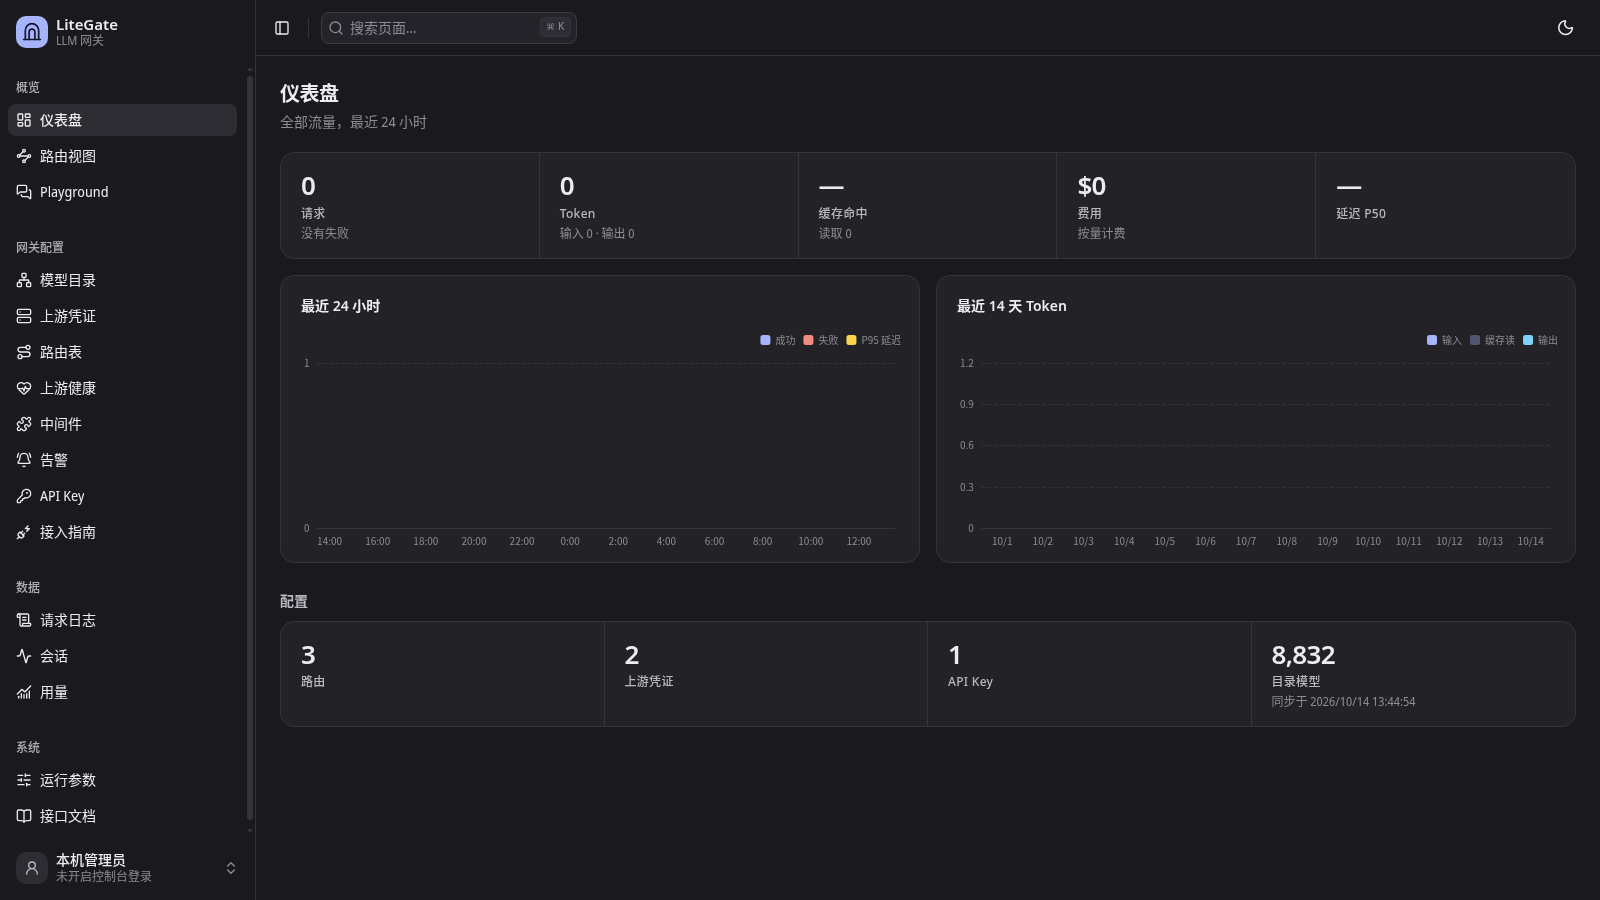
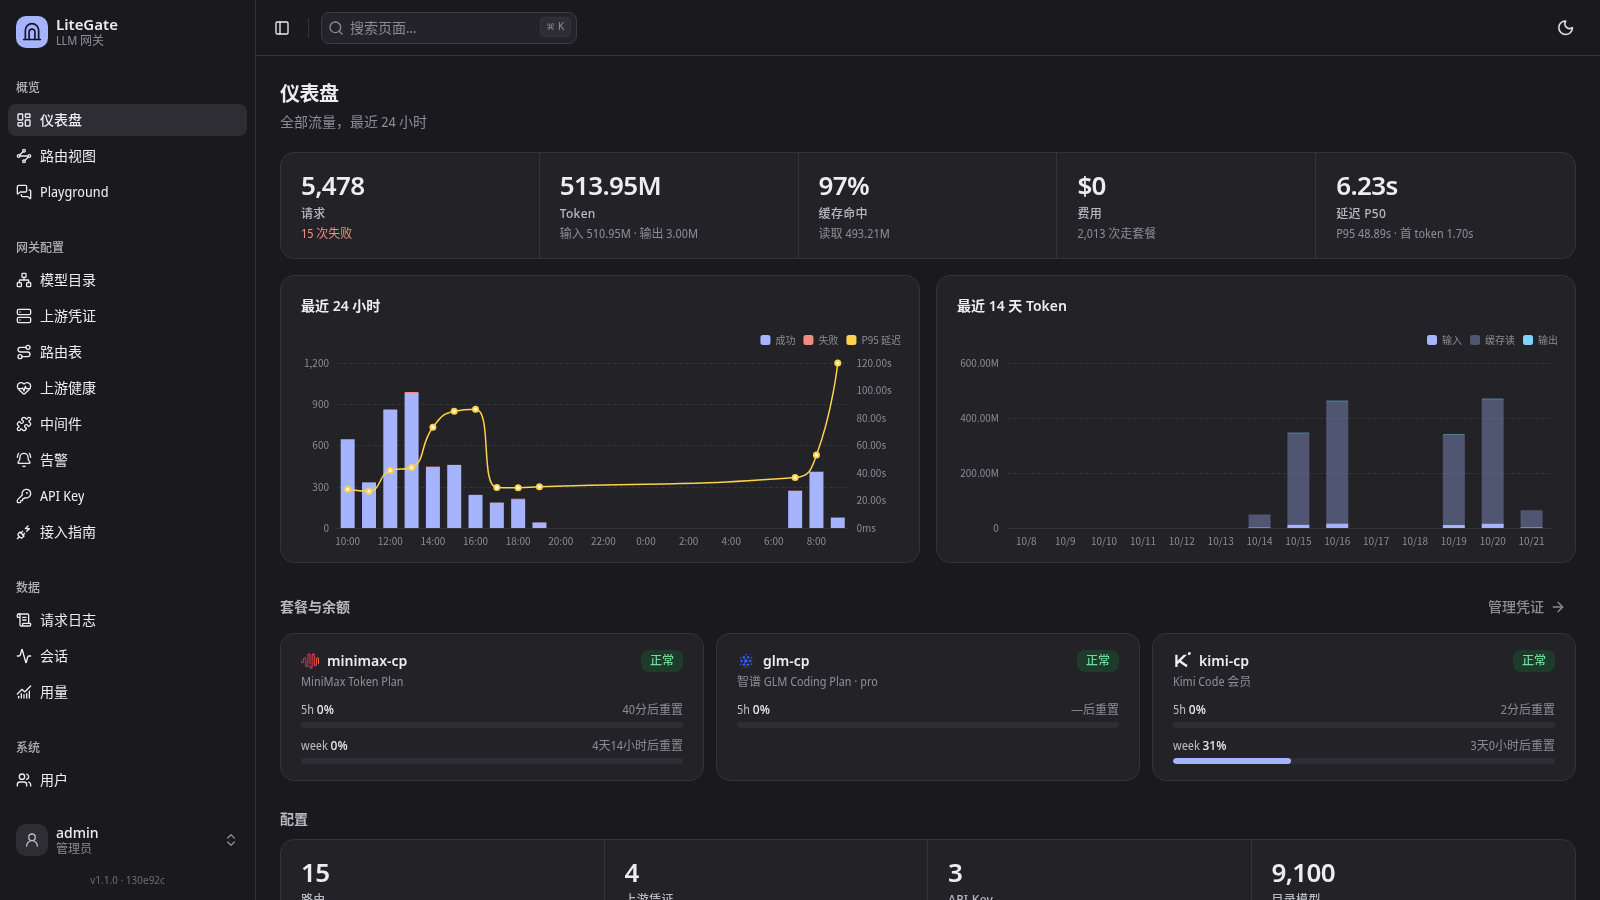
docs: 更新 v1.1.0 截图、README 与更新日志
- 重新截取控制台截图：仪表盘、上游健康、路由表、接入配置（v1.1.0 · 130e92c）
  替换旧的 route-rules.png，改为 routes.png，新增 health.png 展示 429 节流与出站速率
- 新增 CHANGELOG.md：1.1.0 的新增/变更/性能/修复与 1.0.0 初始实现，
  显著标注安全绑定破坏性变更
- README：截图配图说明、文档表新增更新日志入口、Docker 章节补 compose 部署与安全绑定说明
- docs/configuration.md：安全绑定小节的版本号由 v0.2 更正为 1.1.0
- 纳入 docker-compose.yml 与 deploy/litegate.env 的 gitignore

diff --git a/CHANGELOG.md b/CHANGELOG.md
@@ -1,0 +1,64 @@
+# 更新日志
+
+格式参考 [Keep a Changelog](https://keepachangelog.com/zh-CN/1.1.0/)，版本号遵循语义化版本。
+版本号以 `rebar.config` 的 release 为准，控制台侧栏与 `GET /api/version` 显示同一版本与 git commit。
+
+## 1.1.0 — 2026-10-21
+
+内存安全与热路径性能治理，出站自适应限流，控制台登录与安全默认值收紧，Docker Compose 部署。
+
+### 新增
+
+- **出站自适应限流**（对所有供应商与模型统一生效）：按 `{凭证, 模型}` 记录最近一分钟出站 QPM，
+  上游返回 429 时以 AIMD 反馈降低发送速率——首犯乘以 `out_rate_factor`、再犯减半、不低于
+  `out_rate_min_rpm`，窗口内不再撞墙则按 `out_rate_recovery_ms` 自动回升。
+  参数：`out_rate_enabled`、`out_rate_factor`、`out_rate_min_rpm`、`out_rate_recovery_ms`。
+- **节流等待策略**：`out_rate_wait = queue`（默认，等待速率窗口滚动后放行）或 `fail`（立即返回 429）；
+  凭证选项新增静态上限 `max_rpm`，生效上限取学习 Cap 与 `max_rpm` 的较小值。
+- **出站速率观测**：控制台「上游健康」页显示每个凭证的出站 RPM 与冷却、节流状态，
+  「仪表盘」新增 429 节流卡片，Prometheus 暴露 `litegate_out_qpm` 与 `litegate_out_throttled_total`。
+- **非 chat 端点的 `stream: true` 兼容**：嵌入、重排等非流式端点忽略流式标记并按同步返回，
+  请求日志记 `stream_ignored`，不再静默挂起。
+- **TLS 监听**：`tls_enabled`、`tls_port`、`tls_cert_file`、`tls_key_file`；HTTPS 与明文监听可同时启用。
+- **配置「需重启」标注**：只在启动时读取的参数（数据目录、监听地址与端口、最大请求体、TLS 相关）
+  在控制台运行参数页标记为需重启生效。
+- **控制台版本显示**：侧栏底部显示 `v<版本> · <commit>`，`GET /api/version` 返回版本与 commit，
+  Docker 与 release 构建通过 `GIT_SHA` 注入。
+- **Docker Compose 部署**：新增 `docker-compose.yml` 与 `deploy/litegate.env` 模板，
+  镜像标签默认 `litegate:1.1.0`，状态固定在容器内 `/data`。
+- **多实例部署文档**：`docs/deploy.md` 说明配额、并发、冷却、粘性、节流 Cap 均为节点本地的语义与折算方式。
+
+### 变更
+
+- **破坏性：非回环绑定默认拒绝启动**。HTTP 绑定非 loopback 地址、`console_auth = false`
+  且未显式放行时网关启动失败并给出迁移指引：开启控制台登录、改绑回环地址，
+  或设置 `allow_insecure_bind = true` 明确接受风险。详见 [配置](docs/configuration.md)。
+- **OTLP 队列按字节封顶**：新增 `otlp_queue_max_bytes`（默认 64MB），队列达到阈值先剥离请求体，
+  超限丢弃最旧条目，避免导出端不可达时链路在内存里无限堆积。
+- 冷却（`lg_cooldown`）只负责失败退避，速率上限交给出站节流；上游 429 不再只降权。
+- 版本号统一到 1.1.0（release、各 `*.app.src`、OpenAPI 与控制台显示一致）。
+
+### 性能
+
+- `lg_config:get/1` 两级缓存（persistent_term 存默认值 + 已解析值缓存），热路径读取零 Mnesia 访问。
+- `lg_metrics` 渲染与快照改为 Rows → RowMap，消除按标签组合的 O(n²) 扫描。
+- 通配路由匹配结果预编译进 ETS 缓存，路由写入后全量重建。
+- `lg_store` 查询 flush 按范围拆分（`logs` / `all`），两类写出不互相阻塞。
+- token 估算改为 binary 逐码点扫描，消除大字符串的 `characters_to_list` 分配。
+
+### 修复
+
+- `login_guard`、`cooldown`、`affinity`、`session` 状态表补齐周期清扫，长跑进程不再单调增长。
+- `mw_remote` 动态原子改用 `binary_to_existing_atom`，避免远程中间件配置污染原子表。
+
+## 1.0.0 — 2026-10-16
+
+初始实现（工程内版本号 0.1.0）。
+
+- 兼容 OpenAI 与 Anthropic 接口格式的 LLM API 网关，流式与非流式转发。
+- 多凭证路由、优先级分组与失败回退，六种同优先级策略，路由别名与通配匹配。
+- 规则路由（改写、注入、拦截）、会话粘性与上游亲和。
+- 额度控制、预算与限流（入站 RPM/TPM/并发、上游并发闸、套餐额度）。
+- 请求日志、会话、用量计费统计，Prometheus 指标、OTLP 链路导出与告警。
+- React 管理控制台：模型目录、凭证、路由、API Key、接入指南、运行参数与用户。
+- systemd 与 Docker 部署脚本，Mnesia/Bitcask 持久化与配置自动备份。

diff --git a/README.md b/README.md
@@ -3,9 +3,19 @@
 LiteGate 是基于 Erlang/OTP 的 LLM API 统一网关，兼容 OpenAI 与 Anthropic 接口格式。
 它提供多凭证路由、失败回退、额度控制、规则路由、会话粘性、用量计费和管理控制台。
 
+**仪表盘**：请求与 Token 趋势、上游额度与预算、429 节流状态
+
 ![仪表盘](docs/screenshots/dashboard.png)
 
-![规则路由](docs/screenshots/route-rules.png)
+**上游健康**：凭证冷却、节流与出站速率（RPM）
+
+![上游健康](docs/screenshots/health.png)
+
+**路由表**：目标优先级、回退链路与规则数量
+
+![路由表](docs/screenshots/routes.png)
+
+**接入配置**：Claude Code、Codex、opencode 的客户端配置
 
 ![接入配置](docs/screenshots/integrations.png)
 
@@ -20,6 +30,7 @@ LiteGate 是基于 Erlang/OTP 的 LLM API 统一网关，兼容 OpenAI 与 Anthr
 | [可观测性](docs/observability.md) | 日志、用量、指标、链路、告警和健康 |
 | [部署](docs/deploy.md) | systemd 构建、安装、运维、备份和升级 |
 | [开发](docs/development.md) | 本地构建、测试、检查和项目结构 |
+| [更新日志](CHANGELOG.md) | 版本变更与破坏性变更 |
 
 ## 依赖
 
@@ -58,10 +69,22 @@ Anthropic 客户端把基础地址指向 `http://localhost:4000`，并用 `x-api
 
 ## Docker
 
+镜像构建分三阶段（控制台前端 → Erlang release → 精简运行时），状态保存在容器内 `/data`，
+运行参数用 `LITEGATE_*` 环境变量传入。
+
 ```sh
 docker build -t litegate .
 docker run -d --name litegate -p 4000:4000 -v litegate-data:/data litegate
 ```
 
-容器状态保存在 `/data`。运行参数使用 `LITEGATE_*` 环境变量传入。把端口暴露到非本机环境前，
-应先创建管理员并开启控制台登录。
+用 compose 部署（推荐，配置从 `deploy/litegate.env` 读取，模板见 `deploy/litegate.env.example`）：
+
+```sh
+docker compose build --build-arg GIT_SHA=$(git rev-parse --short HEAD)
+docker compose up -d
+docker compose logs -f
+```
+
+容器内监听 `0.0.0.0`，因此必须开启控制台登录：`LITEGATE_CONSOLE_AUTH=true`，
+首次启动用 `LITEGATE_ADMIN_PASSWORD` 创建 admin。非回环绑定且未开启登录时网关拒绝启动，
+除非显式设置 `LITEGATE_ALLOW_INSECURE_BIND=true` 接受风险（仅限受信任的隔离网络）。

diff --git a/docs/configuration.md b/docs/configuration.md
@@ -41,7 +41,7 @@
 可以在控制台开启配置自动备份。备份会按固定间隔写入配置的备份目录，使用口令加密，
 并按保留份数滚动清理。
 
-### 安全绑定（v0.2 破坏性变更）
+### 安全绑定（1.1.0 破坏性变更）
 
 非回环绑定地址（如 `0.0.0.0`）且 `console_auth` 为 `false` 时，网关**拒绝启动**，
 防止管理 API（凭证明文、中间件配置）在无鉴权状态下暴露到网络。
